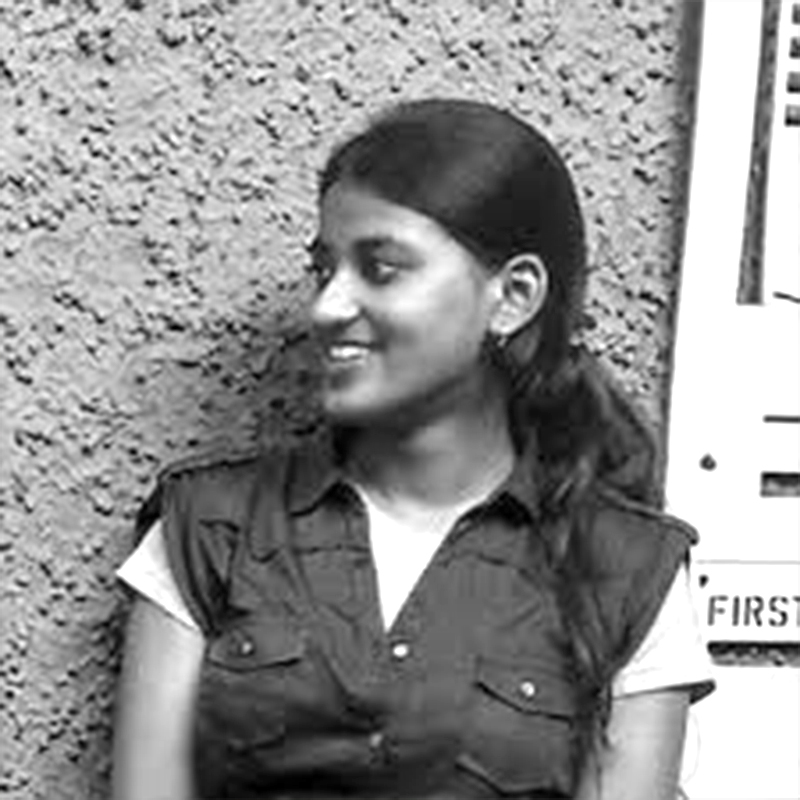
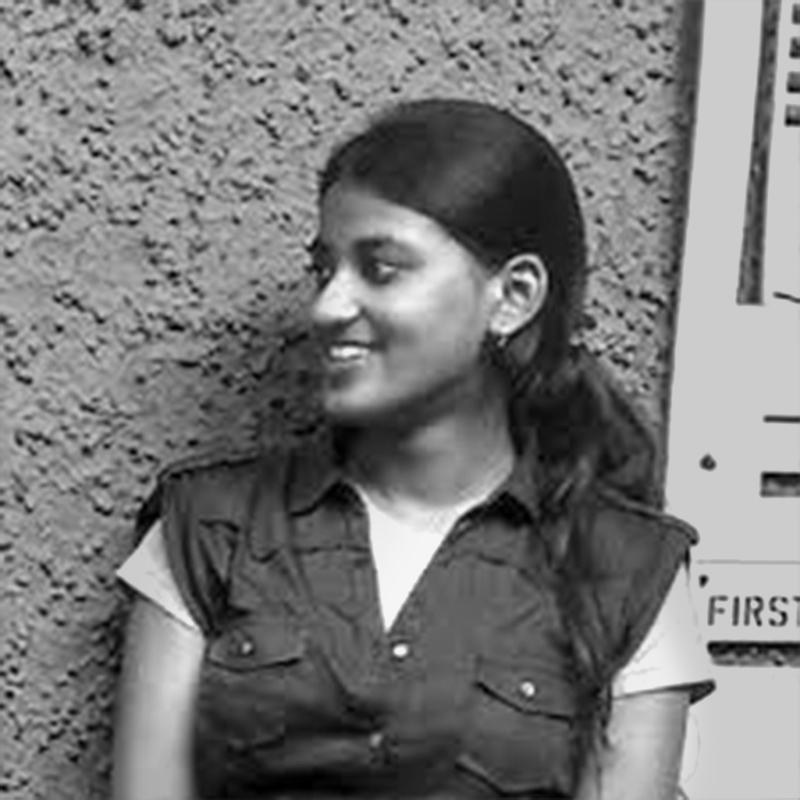
thumbnails border radius

diff --git a/_includes/documents-collection-pastmembers.html b/_includes/documents-collection-pastmembers.html
@@ -1,18 +1,11 @@
 
-            {%- for link in site.data.pastmembers.main -%}
-                <div style="width: 140px; height: 180px; float: left; font-size: medium;">
-                {% if page.url contains link.url %}
-                <div style="width: 100px;">
-                    <a href="{{ site.baseurl }}{{ link.url }}">
-                    		<img style="max-width: 100px" src="{{ site.baseurl }}{{ link.photo }}">
-                        	<p style="color: #121617; text-decoration: none; font-weight: bold;">{{ link.title }}</p>
-                    </a>
-                </div>
-                 {% else %}
-                <div style="width: 100px;">
-                            <img style="max-width: 100px" src="{{ site.baseurl }}{{ link.photo }}">
-                            <p style="color: #121617; text-decoration: none; font-weight: bold;">{{ link.title }}</p>
-                </div>
-                 {% endif %}
-                </div>
-            {% endfor %}
+{%- for link in site.data.pastmembers.main -%}
+    <div style="width: 140px; height: 180px; float: left; font-size: medium;">
+        <div style="width: 100px;">
+                <a href="{{ link.url }}" target="_blank">
+                    <img style="max-width: 100px; border-radius: 5px;" src="{{ site.baseurl }}{{ link.photo }}">
+                    <p style="color: #121617; text-decoration: none; font-weight: bold;">{{ link.title }}</p>
+                </a>
+        </div>
+    </div>
+{% endfor %}

diff --git a/_sass/minimal-mistakes/_archive.scss b/_sass/minimal-mistakes/_archive.scss
@@ -105,7 +105,7 @@
 
 .archive__item-teaser {
   position: relative;
-  //border-radius: $border-radius*3;
+  border-radius: 5px;
   overflow: hidden;
 }
 
@@ -554,7 +554,7 @@ position: absolute;
   background-color: #fefefe;
   //margin: 20% 20%; /* 15% from the top and centered */
   padding: 20px;
-  border: 1px solid #888;
+  border-radius: 5px;
   width: 40%;
     min-width: 480px;  
 

diff --git a/_projects/1_cinevoque.md b/_projects/1_cinevoque.md
@@ -1,6 +1,6 @@
 ---
 title:  "Cinévoqué"
-excerpt: Responsive VR Cinema Framework
+excerpt: Responsive VR Cinema
 layout: projects
 selected: "true"
 homepage: "true"
